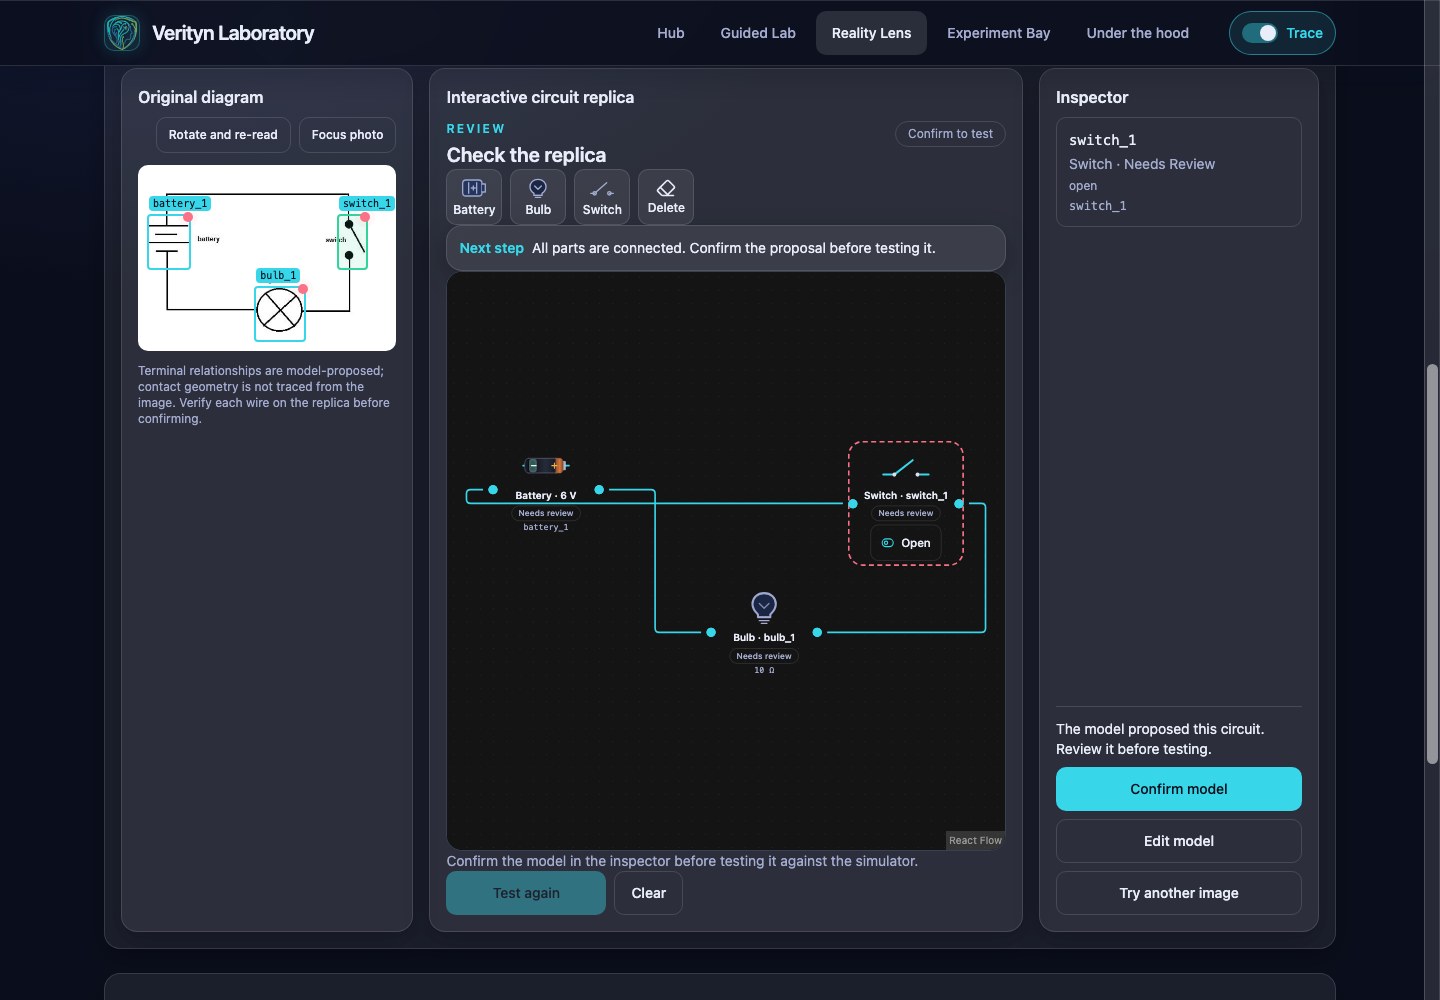
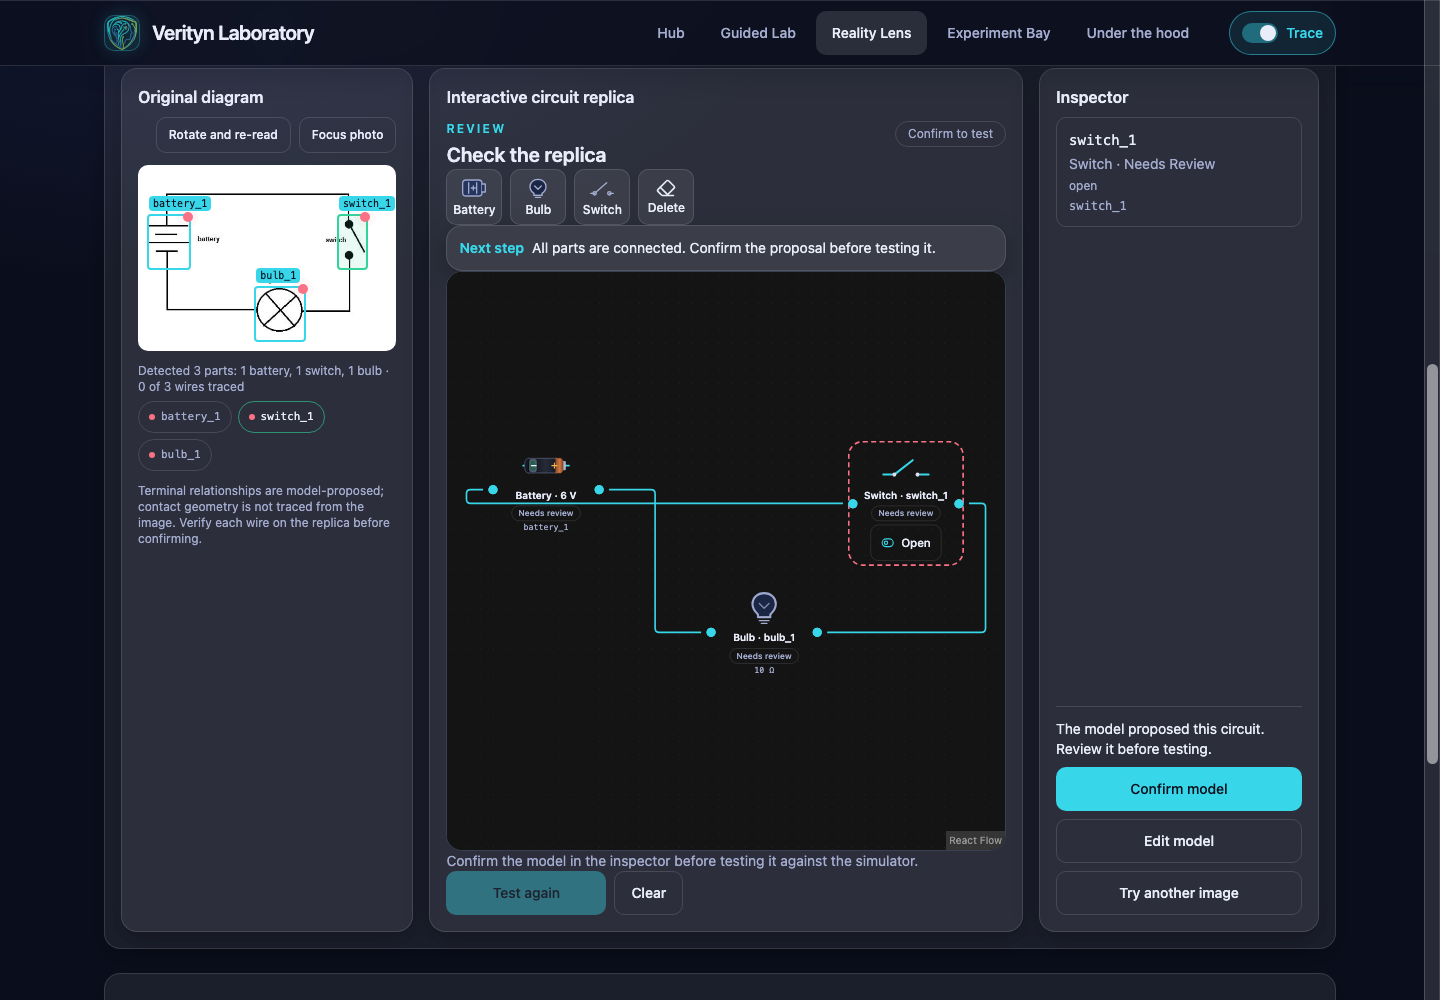
Lens cockpit: detected-evidence summary under the Original photo
Column 1 regains a compact evidence summary beneath the image: detected part counts, wires-traced count, and per-part status chips that select into the inspector. Inspector actions, replica HUD, and grounded dock untouched. Smoke 266 PASS.

Changed region(s): [[0.0938, 0.341, 0.2812, 0.434], [0.0938, 0.465, 0.2812, 0.558]]

diff --git a/frontend/src/components/SnapBuildLab.tsx b/frontend/src/components/SnapBuildLab.tsx
@@ -512,6 +512,39 @@ function ReviewPanels({
                 </div>
               )}
             </div>
+            <div aria-label="Detected evidence summary" className="flex flex-col gap-1.5">
+              <p className="text-ink-muted text-xs">
+                Detected {health.partsLine.charAt(0).toLowerCase() + health.partsLine.slice(1)} ·{' '}
+                {tracedWires.length} of {proposal.connections.length} wires traced
+              </p>
+              <ul className="flex flex-wrap gap-1.5">
+                {proposal.components.map((component) => {
+                  const status = componentReviewStatus(component.id, proposal, corrected)
+                  const needsWork = status === 'needs-review' || status === 'unsupported-diagram'
+                  return (
+                    <li key={component.id}>
+                      <button
+                        type="button"
+                        onClick={() => toggleSelection(component.id)}
+                        aria-pressed={selection === component.id}
+                        title={`${component.id} · ${REVIEW_STATUS_LABELS[status]} — inspect`}
+                        className={`flex min-h-[32px] items-center gap-1.5 rounded-full border px-2.5 py-1 font-mono text-[11px] ${
+                          selection === component.id
+                            ? 'border-ok/60 text-ink'
+                            : 'border-glass-border text-ink-muted'
+                        }`}
+                      >
+                        <span
+                          aria-hidden="true"
+                          className={`h-1.5 w-1.5 rounded-full ${needsWork ? 'bg-bad' : 'bg-ok'}`}
+                        />
+                        {component.id}
+                      </button>
+                    </li>
+                  )
+                })}
+              </ul>
+            </div>
             {testedResult?.ok === true && (
               <ul aria-label="Measured bulb readings on your photo" className="flex flex-wrap gap-2">
                 {proposal.components
